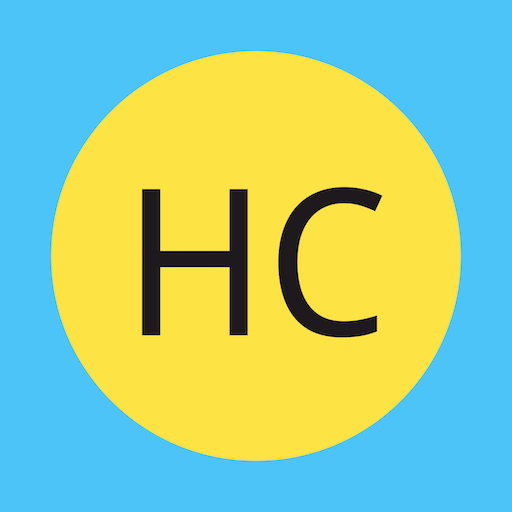
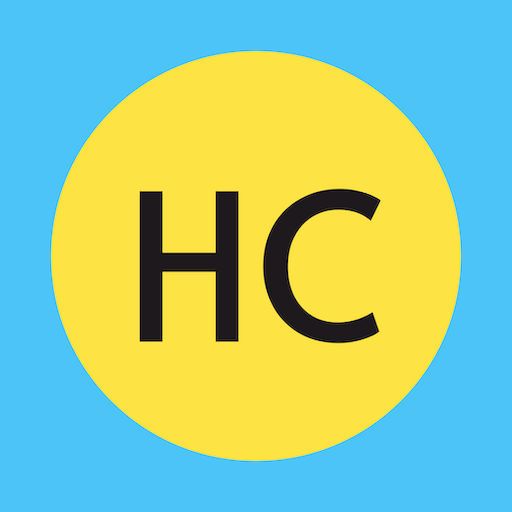
feat: update font type

Changed region(s): [[0.25, 0.3438, 0.75, 0.6875]]

diff --git a/layouts/partials/head.html b/layouts/partials/head.html
@@ -9,14 +9,14 @@
 <link rel="preconnect" href="https://fonts.gstatic.com" crossorigin>
 <link rel="preload"
       as="style"
-      href="https://fonts.googleapis.com/css2?family=Alata&family=Lora:ital,wght@0,400;0,500;0,600;0,700;1,400;1,500;1,600;1,700&family=Roboto:ital,wght@0,100;0,300;0,400;0,500;0,700;0,900;1,100;1,300;1,400;1,500;1,700;1,900&display=swap"
+      href="https://fonts.googleapis.com/css2?family=Alata&family=Lora:ital,wght@0,400;0,500;0,600;0,700;1,400;1,500;1,600;1,700&family=Roboto:ital,wght@0,100;0,300;0,400;0,500;0,700;0,900;1,100;1,300;1,400;1,500;1,700;1,900&Montserrat:ital,wght@0,100..900;1,100..900&display=swap"
 >
 <link rel="stylesheet"
-      href="https://fonts.googleapis.com/css2?family=Alata&family=Lora:ital,wght@0,400;0,500;0,600;0,700;1,400;1,500;1,600;1,700&family=Roboto:ital,wght@0,100;0,300;0,400;0,500;0,700;0,900;1,100;1,300;1,400;1,500;1,700;1,900&display=swap"
+      href="https://fonts.googleapis.com/css2?family=Alata&family=Lora:ital,wght@0,400;0,500;0,600;0,700;1,400;1,500;1,600;1,700&family=Roboto:ital,wght@0,100;0,300;0,400;0,500;0,700;0,900;1,100;1,300;1,400;1,500;1,700;1,900&Montserrat:ital,wght@0,100..900;1,100..900&display=swap"
       media="print" onload="this.media='all'" />
 <noscript>
   <link
-          href="https://fonts.googleapis.com/css2?family=Alata&family=Lora:ital,wght@0,400;0,500;0,600;0,700;1,400;1,500;1,600;1,700&family=Roboto:ital,wght@0,100;0,300;0,400;0,500;0,700;0,900;1,100;1,300;1,400;1,500;1,700;1,900&display=swap"
+          href="https://fonts.googleapis.com/css2?family=Alata&family=Lora:ital,wght@0,400;0,500;0,600;0,700;1,400;1,500;1,600;1,700&family=Roboto:ital,wght@0,100;0,300;0,400;0,500;0,700;0,900;1,100;1,300;1,400;1,500;1,700;1,900&Montserrat:ital,wght@0,100..900;1,100..900&display=swap"
           rel="stylesheet">
 </noscript>
 

diff --git a/layouts/partials/sections/about.html b/layouts/partials/sections/about.html
@@ -1,7 +1,6 @@
 {{ if .Site.Params.about.enable | default false }}
 <section id="about" class="py-0 py-sm-5">
     <div class="container bg-transparent">
-        <h3 class="text-center bg-transparent">{{ .Site.Params.about.title }}</h3>
         <div class="bg-transparent row justify-content-center px-3 py-5">
             {{ if .Site.Params.about.image }}
             <div class="col-sm-12 col-md-8 col-lg-4 mb-5 mb-sm-0 mb-md-5 mb-lg-0 d-none d-sm-none d-md-block">
@@ -10,7 +9,8 @@
                 </div>
             </div>
             {{ end }}
-            <div class="col-sm-12 col-md-12 col-lg-8 content">
+            <div class="col-sm-12 col-md-12 col-lg-8 content px-5">
+                <h3 class="bg-transparent">{{ .Site.Params.about.title }}</h3>
                 {{ .Site.Params.about.content | markdownify }}
 
                 {{ if .Site.Params.about.skills.enable }}

diff --git a/static/css/font.css b/static/css/font.css
@@ -1,12 +1,14 @@
 
 /* Default font for body */
 body {
-    font-family: "Lora", serif !important;
+    /* font-family: "Lora", serif !important; */
+    font-family: "Montserrat", sans-serif !important;
 }
 
 /* secondary font */
 .secondary-font, #secondary-font {
-    font-family: "Lora", serif;
+    /* font-family: "Lora", serif; */
+    font-family: "Montserrat", sans-serif;
 }
 
 /* primary font */

diff --git a/static/css/projects.css b/static/css/projects.css
@@ -1,4 +1,9 @@
 /* projects */
+#projects {
+    background-color: var(--secondary-background-color) !important;
+    /* background-color: var(--secondary-background-color-color) !important; */
+}
+
 #projects h3 {
     color: var(--text-secondary-color) !important;
 }
